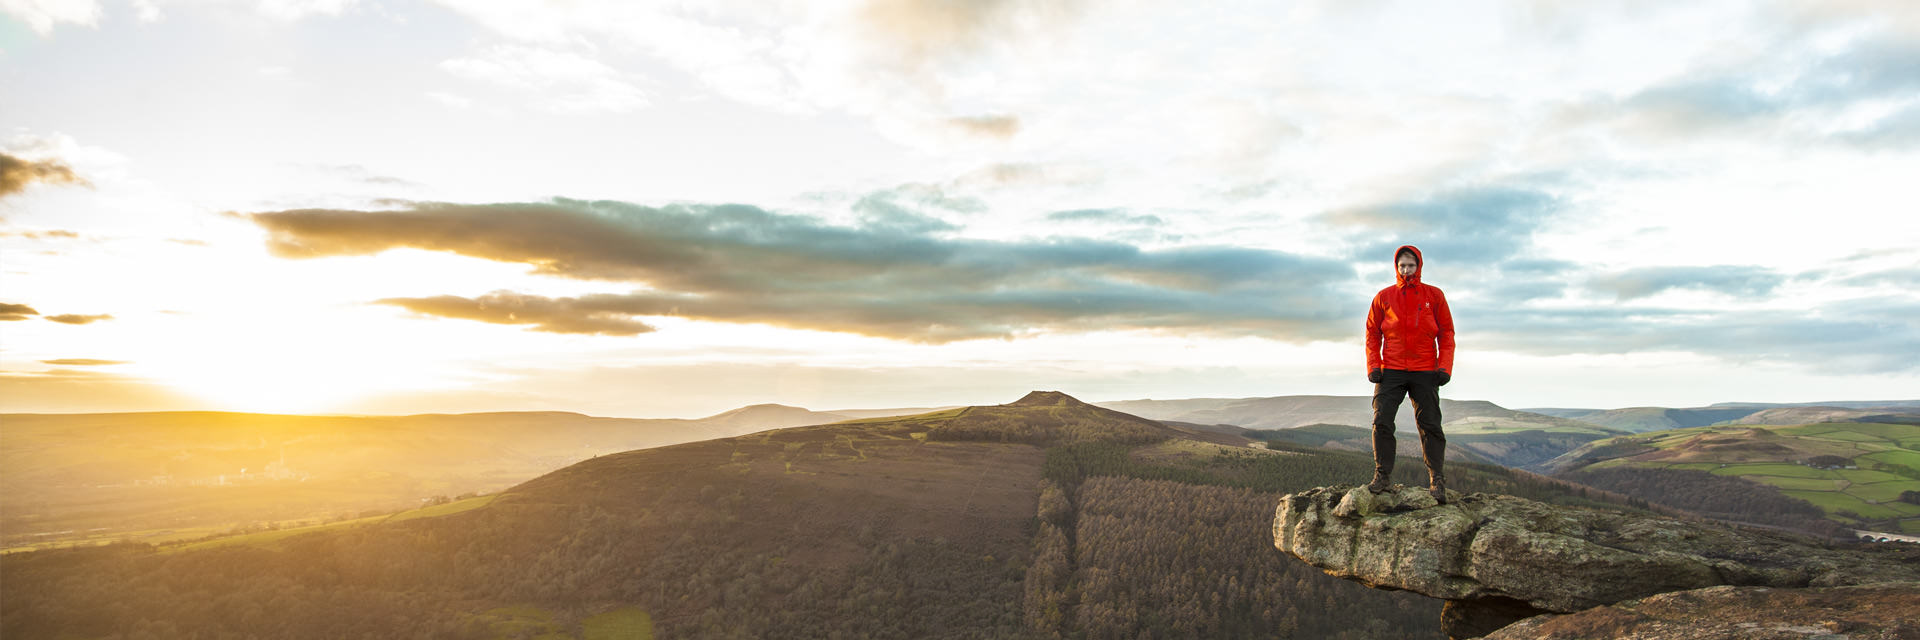
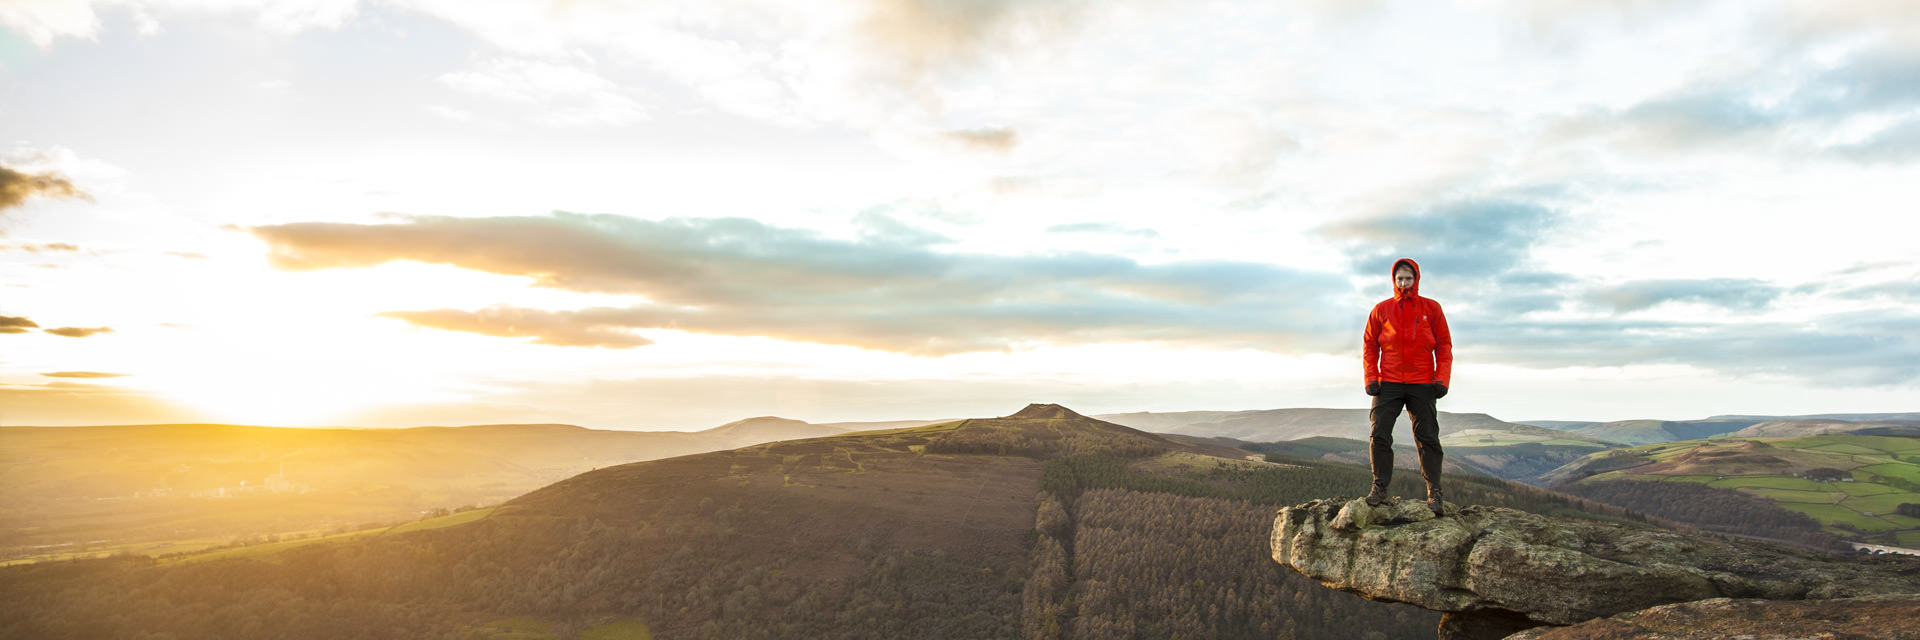
Moved headers on all pages (except about page) into center

diff --git a/public/assets/minified/design.css b/public/assets/minified/design.css
@@ -1,1 +1,1 @@
-*,:after,:before{box-sizing:border-box;margin:0;padding:0}code[class*=language-],pre[class*=language-]{color:#f8f8f2;text-shadow:0 1px rgba(0,0,0,.3);font-family:Consolas,Monaco,'Andale Mono',monospace;font-size:.9em;direction:ltr;text-align:left;white-space:pre;word-spacing:normal;-moz-tab-size:4;-o-tab-size:4;tab-size:4;-webkit-hyphens:none;-moz-hyphens:none;-ms-hyphens:none;hyphens:none}pre[class*=language-]{padding:.5em 1em;margin:1em 0;overflow:auto;border-radius:.3em}:not(pre)>code[class*=language-],pre[class*=language-]{background:#272822}:not(pre)>code[class*=language-]{margin:0 .3em;padding:.1em .3em;border-radius:.3em}.token.cdata,.token.comment,.token.doctype,.token.prolog{color:#708090}.token.punctuation{color:#f8f8f2}.namespace{opacity:.7}.token.property,.token.tag{color:#f92672}.token.boolean,.token.number{color:#ae81ff}.token.attr-name,.token.selector,.token.string{color:#a6e22e}.language-css .token.string,.style .token.string,.token.entity,.token.operator,.token.url{color:#f8f8f2}.token.atrule,.token.attr-value{color:#e6db74}.token.keyword{color:#66d9ef}.token.important,.token.regex{color:#fd971f}.token.important{font-weight:700}.token.entity{cursor:help}@font-face{font-family:Sonus-Light;src:url(../font/sonus-light.eot);src:url(../font/sonus-light.eot?#iefix) format("embedded-opentype"),url(../font/sonus-light.woff) format("woff"),url(../font/sonus-light.ttf) format("truetype");font-weight:400;font-style:normal}@font-face{font-family:Sonus-Regular;src:url(../font/sonus-regular.eot);src:url(../font/sonus-regular.eot?#iefix) format("embedded-opentype"),url(../font/sonus-regular.woff) format("woff"),url(../font/sonus-regular.ttf) format("truetype");font-weight:400;font-style:normal}strong{font-family:Sonus-Regular,Helvetica,Arial,sans-serif}em{font-style:italic;font-weight:700}a{color:#f80;text-decoration:none}h1,h2,h3,h4,h5{font-family:Sonus-Regular,Helvetica,Arial,sans-serif}h1{font-size:2.5em}h2{font-size:1.75em}h3{font-size:1.3em}h4{font-size:1.15em}h5{font-size:1em}@-webkit-keyframes pulse{0%{-webkit-transform:scale3d(1,1,1);transform:scale3d(1,1,1)}50%{-webkit-transform:scale3d(1.1,1.1,1.1);transform:scale3d(1.1,1.1,1.1)}100%{-webkit-transform:scale3d(1,1,1);transform:scale3d(1,1,1)}}@keyframes pulse{0%{-webkit-transform:scale3d(1,1,1);transform:scale3d(1,1,1)}50%{-webkit-transform:scale3d(1.1,1.1,1.1);transform:scale3d(1.1,1.1,1.1)}100%{-webkit-transform:scale3d(1,1,1);transform:scale3d(1,1,1)}}.pulse,section[page=about] header.full-page a.down{-webkit-animation-name:pulse;animation-name:pulse;-webkit-animation-duration:750ms;animation-duration:750ms;-webkit-animation-iteration-count:infinite;animation-iteration-count:infinite}img{border:0;display:block}ol,ul{list-style-position:outside;list-style-type:square}ol li,ul li{margin-top:.1em}ol ol,ol ul,ul ol,ul ul{margin-top:.1em!important;margin-left:1em}s{text-decoration:strikethrough}h2{margin-top:2em}h3{margin-top:1.5em}h4{margin-top:1em}h5{margin-top:.5em}p{margin-top:1em}ol,ul{margin-top:.5em}blockquote{background:rgba(0,0,0,.025);margin-top:1em;padding:.5em 1em}blockquote cite{display:block;font-weight:700;margin-top:1em}table{border-collapse:collapse;margin-top:1em;width:100%}table thead{background:#222;color:#fff;font-weight:700}table tbody tr{background:rgba(0,0,0,.025)}table tbody tr:nth-child(even){background:rgba(0,0,0,.05)}table td{padding:1% 2%}hgroup.section{height:1.5em;margin:2em 0;position:relative}hgroup.section span{background:#646464;display:block;height:1px;position:relative;top:50%;width:100%}hgroup.section h3{display:inline-block;background:#f2efeb;left:37.5%;margin:0;position:relative;text-align:center;width:25%}@media screen and (max-width:800px){hgroup.section h3{left:25%;width:50%}}div.photo{margin:1.5em 0}div.photo img{margin:auto;max-width:100%}div.photo.full-width{background-position:center center;background-size:cover;height:400px;margin:3em 0;overflow:hidden}div.photo.full-width.left{background-position:center left}div.photo.full-width.right{background-position:center right}div.photo.full-width img{width:100%}div.gallery{height:300px;margin:3em 0;overflow:hidden}@media screen and (max-width:800px){div.gallery{height:auto}}div.gallery div.photo{background-position:center center;background-size:cover;float:left;height:100%;margin:0}div.gallery div.photo.one-thirds{width:33%}div.gallery div.photo.two-thirds{width:66%}div.gallery div.photo.margin-left{margin-left:1%}div.gallery div.photo.margin-right{margin-right:1%}@media screen and (max-width:800px){div.gallery div.photo{float:none;height:200px;margin:1em 0 0!important;width:auto!important}}div.video{height:0;position:relative;margin:3em 0}div.video.aspect-16-9{padding-bottom:56.25%}div.video iframe{height:100%;left:0;position:absolute;top:0;width:100%}html{background:#f2efeb;color:#222;font:105%/1.6em Sonus-Light,Helvetica,Arial,sans-serif;position:relative}.reading-width,body[template=default] section#content,section[page=about] div.inner{width:70%;max-width:1000px}@media screen and (max-width:800px){.reading-width,body[template=default] section#content,section[page=about] div.inner{width:80%}}@media screen and (max-width:600px){.reading-width,body[template=default] section#content,section[page=about] div.inner{width:90%}}body[template=default] header{background:url(../img/joel-vardy-peak-district.jpg) right center #e1e1e1;background-size:cover;position:relative}body[template=default] header.full-page{min-height:100vh}body[template=default] header.half-page{min-height:50vh}body[template=default] header.half-page hgroup{color:#222;left:75px;position:absolute;top:100px;text-shadow:#fff 0 1px 0}@media screen and (max-width:500px){body[template=default] header.half-page hgroup{left:5%;text-align:center;width:90%}}body[template=default] header.half-page hgroup a{color:#222}body[template=default] header.half-page hgroup h1{line-height:1em}body[template=default] header.half-page hgroup h4{line-height:1.3em;margin-top:.25em}body[template=default] header.half-page hgroup h4 a{text-decoration:underline}body[template=default] header nav{overflow:hidden}body[template=default] header nav a{background:rgba(255,255,255,.5);border-bottom-left-radius:3px;border-bottom-right-radius:3px;color:#222;float:left;margin-left:20px;padding:5px 10px;text-shadow:#fff 0 1px 0;text-transform:uppercase}body[template=default] header nav a.active{border-bottom:2px #f80 solid;color:#222}body[template=default] section#content{margin:0 auto;padding-bottom:3em}section[page=about] header.full-page{background-image:url(../img/about/joel-vardy-lonely-iceland.jpg);background-position:left center}section[page=about] header.full-page h1,section[page=about] header.full-page p{position:absolute;right:75px;text-align:right;max-width:400px}@media screen and (max-width:550px){section[page=about] header.full-page h1,section[page=about] header.full-page p{right:5%;max-width:none;text-align:center;width:90%}}section[page=about] header.full-page h1{font-size:3em;top:75px}@media screen and (max-width:550px){section[page=about] header.full-page h1{top:65px}}section[page=about] header.full-page p{font-size:1.8em;line-height:1.5em;top:125px}@media screen and (max-width:550px){section[page=about] header.full-page p{font-size:1.6em;top:80px}}section[page=about] header.full-page a.down{background:url(../img/icons/down.svg) center center no-repeat;background-size:60px;display:block;height:50px;left:50%;margin:-25px 0 0 -50px;position:absolute;-webkit-tap-highlight-color:rgba(255,255,255,0);top:50%;width:100px}section[page=about] ol,section[page=about] ul{list-style-position:inside}section[page=about] div.inner{margin:0 auto;padding-bottom:3em}section[page=about] section#skills{overflow:hidden}section[page=about] section#skills h4{border-bottom:1px solid rgba(0,0,0,.075);display:inline-block}section[page=about] section#biography{background:url(../img/about/sky.jpg) center center;background-size:cover;color:#fff;overflow:hidden}section[page=about] section#biography h2{text-shadow:0 0 15px #000}section[page=about] section#biography p,section[page=about] section#biography ul{font-size:1.15em;line-height:1.65em;text-shadow:1px 1px 5px #000}section[page=about] section#contact{overflow:hidden}section[page=workspace] h4{margin-top:1.5em}section[page=projects] header.half-page{background-image:url(../img/projects/loch.jpg);background-position:left center}section[page=projects] div.project{background:#fff;border:1px solid rgba(0,0,0,.1);border-radius:4px;box-shadow:0 0 3px 0 rgba(0,0,0,.05);margin-top:3em;overflow:hidden}section[page=projects] div.project img.footer,section[page=projects] div.project img.header{width:100%}section[page=projects] div.project div.inner{padding:8%}section[page=projects] div.project div.inner h2{margin-top:0}section[page=projects] div.project div.inner ul.details{margin-top:1em}section[page=projects] div.project div.inner ul.details li strong{color:#000}section[page=writing-list] header.half-page{background-image:url(../img/writing/derwent-edge.jpg)}section[page=writing-list] a.post{color:#222;display:block;margin-top:3em}section[page=writing-list] a.post h2{border-bottom:1px solid rgba(0,0,0,.075);display:inline-block;margin-top:0}section[page=writing-list] a.post p.posted{color:#444;margin-top:.5em}section[page=writing-list] a.post p.posted strong{color:#222}section[page=writing-post] header.half-page{background-image:url(../img/writing/derwent-edge.jpg)}section[page=writing-post] div.post h4{font-family:Sonus-Light,Helvetica,Arial,sans-serif;font-size:1.05em;margin-top:0}section[page=writing-post] div.post ol,section[page=writing-post] div.post ul{list-style-position:inside;margin-top:1em}section[page=writing-post] div.post div.photo.event{margin:3em 0;position:relative;z-index:97}section[page=writing-post] div.post div.photo.event:after{background-image:-webkit-linear-gradient(transparent 0,rgba(0,0,0,.75) 100%);background-image:linear-gradient(transparent 0,rgba(0,0,0,.75) 100%);bottom:0;content:" ";display:block;left:0;position:absolute;right:0;top:250px;z-index:98}section[page=writing-post] div.post div.photo.event div.inner{height:100%;margin:auto;position:relative;width:70%;max-width:1000px;z-index:99}@media screen and (max-width:800px){section[page=writing-post] div.post div.photo.event div.inner{width:80%}}@media screen and (max-width:600px){section[page=writing-post] div.post div.photo.event div.inner{width:90%}}section[page=writing-post] div.post div.photo.event div.inner time{background:rgba(0,0,0,.75);border:2px solid #fff;border-radius:35px;display:block;height:70px;position:absolute;right:0;top:225px;width:70px}section[page=writing-post] div.post div.photo.event div.inner time span{color:#fff;display:block;text-align:center}section[page=writing-post] div.post div.photo.event div.inner time span.top{font-size:1.5em;left:0;position:absolute;right:0;top:10px}section[page=writing-post] div.post div.photo.event div.inner time span.bottom{left:0;position:absolute;right:0;text-transform:uppercase;top:35px}section[page=writing-post] div.post div.photo.event div.inner div.details{color:#fff;position:absolute;top:300px}section[page=writing-post] div.post div.photo.event div.inner div.details h4{border-bottom:1px #fff solid;display:inline-block}section[page=writing-post] div.post div.photo.event div.inner div.details p{text-shadow:1px 1px rgba(0,0,0,.25)}@media screen and (max-width:600px){section[page=writing-post] div.post div.photo.event div.inner div.details p{display:none}}@media print{body,section[page=writing-post] div.post div.photo.event div.inner{width:100%}header nav a:not(.active){display:none}section[page=projects] div.project{border:none;border-radius:none;box-shadow:none;margin-top:3em}section[page=projects] div.project div.inner{padding:4%}div.photo.full-width{display:none}}
+*,:after,:before{box-sizing:border-box;margin:0;padding:0}code[class*=language-],pre[class*=language-]{color:#f8f8f2;text-shadow:0 1px rgba(0,0,0,.3);font-family:Consolas,Monaco,'Andale Mono',monospace;font-size:.9em;direction:ltr;text-align:left;white-space:pre;word-spacing:normal;-moz-tab-size:4;-o-tab-size:4;tab-size:4;-webkit-hyphens:none;-moz-hyphens:none;-ms-hyphens:none;hyphens:none}pre[class*=language-]{padding:.5em 1em;margin:1em 0;overflow:auto;border-radius:.3em}:not(pre)>code[class*=language-],pre[class*=language-]{background:#272822}:not(pre)>code[class*=language-]{margin:0 .3em;padding:.1em .3em;border-radius:.3em}.token.cdata,.token.comment,.token.doctype,.token.prolog{color:#708090}.token.punctuation{color:#f8f8f2}.namespace{opacity:.7}.token.property,.token.tag{color:#f92672}.token.boolean,.token.number{color:#ae81ff}.token.attr-name,.token.selector,.token.string{color:#a6e22e}.language-css .token.string,.style .token.string,.token.entity,.token.operator,.token.url{color:#f8f8f2}.token.atrule,.token.attr-value{color:#e6db74}.token.keyword{color:#66d9ef}.token.important,.token.regex{color:#fd971f}.token.important{font-weight:700}.token.entity{cursor:help}@font-face{font-family:Sonus-Light;src:url(../font/sonus-light.eot);src:url(../font/sonus-light.eot?#iefix) format("embedded-opentype"),url(../font/sonus-light.woff) format("woff"),url(../font/sonus-light.ttf) format("truetype");font-weight:400;font-style:normal}@font-face{font-family:Sonus-Regular;src:url(../font/sonus-regular.eot);src:url(../font/sonus-regular.eot?#iefix) format("embedded-opentype"),url(../font/sonus-regular.woff) format("woff"),url(../font/sonus-regular.ttf) format("truetype");font-weight:400;font-style:normal}strong{font-family:Sonus-Regular,Helvetica,Arial,sans-serif}em{font-style:italic;font-weight:700}a{color:#f80;text-decoration:none}h1,h2,h3,h4,h5{font-family:Sonus-Regular,Helvetica,Arial,sans-serif}h1{font-size:2.5em}h2{font-size:1.75em}h3{font-size:1.3em}h4{font-size:1.15em}h5{font-size:1em}@-webkit-keyframes pulse{0%{-webkit-transform:scale3d(1,1,1);transform:scale3d(1,1,1)}50%{-webkit-transform:scale3d(1.1,1.1,1.1);transform:scale3d(1.1,1.1,1.1)}100%{-webkit-transform:scale3d(1,1,1);transform:scale3d(1,1,1)}}@keyframes pulse{0%{-webkit-transform:scale3d(1,1,1);transform:scale3d(1,1,1)}50%{-webkit-transform:scale3d(1.1,1.1,1.1);transform:scale3d(1.1,1.1,1.1)}100%{-webkit-transform:scale3d(1,1,1);transform:scale3d(1,1,1)}}.pulse,section[page=about] header.full-page a.down{-webkit-animation-name:pulse;animation-name:pulse;-webkit-animation-duration:750ms;animation-duration:750ms;-webkit-animation-iteration-count:infinite;animation-iteration-count:infinite}img{border:0;display:block}ol,ul{list-style-position:outside;list-style-type:square}ol li,ul li{margin-top:.1em}ol ol,ol ul,ul ol,ul ul{margin-top:.1em!important;margin-left:1em}s{text-decoration:strikethrough}h2{margin-top:2em}h3{margin-top:1.5em}h4{margin-top:1em}h5{margin-top:.5em}p{margin-top:1em}ol,ul{margin-top:.5em}blockquote{background:rgba(0,0,0,.025);margin-top:1em;padding:.5em 1em}blockquote cite{display:block;font-weight:700;margin-top:1em}table{border-collapse:collapse;margin-top:1em;width:100%}table thead{background:#222;color:#fff;font-weight:700}table tbody tr{background:rgba(0,0,0,.025)}table tbody tr:nth-child(even){background:rgba(0,0,0,.05)}table td{padding:1% 2%}hgroup.section{height:1.5em;margin:2em 0;position:relative}hgroup.section span{background:#646464;display:block;height:1px;position:relative;top:50%;width:100%}hgroup.section h3{display:inline-block;background:#f2efeb;left:37.5%;margin:0;position:relative;text-align:center;width:25%}@media screen and (max-width:800px){hgroup.section h3{left:25%;width:50%}}div.photo{margin:1.5em 0}div.photo img{margin:auto;max-width:100%}div.photo.full-width{background-position:center center;background-size:cover;height:400px;margin:3em 0;overflow:hidden}div.photo.full-width.left{background-position:center left}div.photo.full-width.right{background-position:center right}div.photo.full-width img{width:100%}div.gallery{height:300px;margin:3em 0;overflow:hidden}@media screen and (max-width:800px){div.gallery{height:auto}}div.gallery div.photo{background-position:center center;background-size:cover;float:left;height:100%;margin:0}div.gallery div.photo.one-thirds{width:33%}div.gallery div.photo.two-thirds{width:66%}div.gallery div.photo.margin-left{margin-left:1%}div.gallery div.photo.margin-right{margin-right:1%}@media screen and (max-width:800px){div.gallery div.photo{float:none;height:200px;margin:1em 0 0!important;width:auto!important}}div.video{height:0;position:relative;margin:3em 0}div.video.aspect-16-9{padding-bottom:56.25%}div.video iframe{height:100%;left:0;position:absolute;top:0;width:100%}html{background:#f2efeb;color:#222;font:105%/1.6em Sonus-Light,Helvetica,Arial,sans-serif;position:relative}.reading-width,body[template=default] section#content,section[page=about] div.inner{width:70%;max-width:1000px}@media screen and (max-width:800px){.reading-width,body[template=default] section#content,section[page=about] div.inner{width:80%}}@media screen and (max-width:600px){.reading-width,body[template=default] section#content,section[page=about] div.inner{width:90%}}body[template=default] header{background:url(../img/joel-vardy-peak-district.jpg) left center #e1e1e1;background-size:cover}body[template=default] header.full-page{min-height:100vh}body[template=default] header.half-page{min-height:50vh}body[template=default] header.half-page hgroup{color:#222;margin-top:40px;text-align:center;text-shadow:#fff 0 1px 0}body[template=default] header.half-page hgroup a{color:#222}body[template=default] header.half-page hgroup h1{line-height:1em}body[template=default] header.half-page hgroup h4{line-height:1.3em;margin-top:.25em}body[template=default] header.half-page hgroup h4 a{text-decoration:underline}body[template=default] header nav{overflow:hidden}body[template=default] header nav a{background:rgba(255,255,255,.5);border-bottom-left-radius:3px;border-bottom-right-radius:3px;color:#222;float:left;margin-left:20px;padding:5px 10px;text-shadow:#fff 0 1px 0;text-transform:uppercase}body[template=default] header nav a.active{border-bottom:2px #f80 solid;color:#222}body[template=default] section#content{margin:0 auto;padding-bottom:3em}section[page=about] header.full-page{background-image:url(../img/about/joel-vardy-lonely-iceland.jpg);background-position:left center}section[page=about] header.full-page h1,section[page=about] header.full-page p{position:absolute;right:75px;text-align:right;max-width:400px}@media screen and (max-width:550px){section[page=about] header.full-page h1,section[page=about] header.full-page p{right:5%;max-width:none;text-align:center;width:90%}}section[page=about] header.full-page h1{font-size:3em;top:75px}@media screen and (max-width:550px){section[page=about] header.full-page h1{top:65px}}section[page=about] header.full-page p{font-size:1.8em;line-height:1.5em;top:125px}@media screen and (max-width:550px){section[page=about] header.full-page p{font-size:1.6em;top:80px}}section[page=about] header.full-page a.down{background:url(../img/icons/down.svg) center center no-repeat;background-size:60px;display:block;height:50px;left:50%;margin:-25px 0 0 -50px;position:absolute;-webkit-tap-highlight-color:rgba(255,255,255,0);top:50%;width:100px}section[page=about] ol,section[page=about] ul{list-style-position:inside}section[page=about] div.inner{margin:0 auto;padding-bottom:3em}section[page=about] section#skills{overflow:hidden}section[page=about] section#skills h4{border-bottom:1px solid rgba(0,0,0,.075);display:inline-block}section[page=about] section#biography{background:url(../img/about/sky.jpg) center center;background-size:cover;color:#fff;overflow:hidden}section[page=about] section#biography h2{text-shadow:0 0 15px #000}section[page=about] section#biography p,section[page=about] section#biography ul{font-size:1.15em;line-height:1.65em;text-shadow:1px 1px 5px #000}section[page=about] section#contact{overflow:hidden}section[page=workspace] h4{margin-top:1.5em}section[page=projects] header.half-page{background-image:url(../img/projects/loch.jpg);background-position:left center}section[page=projects] div.project{background:#fff;border:1px solid rgba(0,0,0,.1);border-radius:4px;box-shadow:0 0 3px 0 rgba(0,0,0,.05);margin-top:3em;overflow:hidden}section[page=projects] div.project img.footer,section[page=projects] div.project img.header{width:100%}section[page=projects] div.project div.inner{padding:8%}section[page=projects] div.project div.inner h2{margin-top:0}section[page=projects] div.project div.inner ul.details{margin-top:1em}section[page=projects] div.project div.inner ul.details li strong{color:#000}section[page=writing-list] header.half-page{background-image:url(../img/writing/derwent-edge.jpg)}section[page=writing-list] a.post{color:#222;display:block;margin-top:3em}section[page=writing-list] a.post h2{border-bottom:1px solid rgba(0,0,0,.075);display:inline-block;margin-top:0}section[page=writing-list] a.post p.posted{color:#444;margin-top:.5em}section[page=writing-list] a.post p.posted strong{color:#222}section[page=writing-post] header.half-page{background-image:url(../img/writing/derwent-edge.jpg)}section[page=writing-post] div.post h4{font-family:Sonus-Light,Helvetica,Arial,sans-serif;font-size:1.05em;margin-top:0}section[page=writing-post] div.post ol,section[page=writing-post] div.post ul{list-style-position:inside;margin-top:1em}section[page=writing-post] div.post div.photo.event{margin:3em 0;position:relative;z-index:97}section[page=writing-post] div.post div.photo.event:after{background-image:-webkit-linear-gradient(transparent 0,rgba(0,0,0,.75) 100%);background-image:linear-gradient(transparent 0,rgba(0,0,0,.75) 100%);bottom:0;content:" ";display:block;left:0;position:absolute;right:0;top:250px;z-index:98}section[page=writing-post] div.post div.photo.event div.inner{height:100%;margin:auto;position:relative;width:70%;max-width:1000px;z-index:99}@media screen and (max-width:800px){section[page=writing-post] div.post div.photo.event div.inner{width:80%}}@media screen and (max-width:600px){section[page=writing-post] div.post div.photo.event div.inner{width:90%}}section[page=writing-post] div.post div.photo.event div.inner time{background:rgba(0,0,0,.75);border:2px solid #fff;border-radius:35px;display:block;height:70px;position:absolute;right:0;top:225px;width:70px}section[page=writing-post] div.post div.photo.event div.inner time span{color:#fff;display:block;text-align:center}section[page=writing-post] div.post div.photo.event div.inner time span.top{font-size:1.5em;left:0;position:absolute;right:0;top:10px}section[page=writing-post] div.post div.photo.event div.inner time span.bottom{left:0;position:absolute;right:0;text-transform:uppercase;top:35px}section[page=writing-post] div.post div.photo.event div.inner div.details{color:#fff;position:absolute;top:300px}section[page=writing-post] div.post div.photo.event div.inner div.details h4{border-bottom:1px #fff solid;display:inline-block}section[page=writing-post] div.post div.photo.event div.inner div.details p{text-shadow:1px 1px rgba(0,0,0,.25)}@media screen and (max-width:600px){section[page=writing-post] div.post div.photo.event div.inner div.details p{display:none}}@media print{body,section[page=writing-post] div.post div.photo.event div.inner{width:100%}header nav a:not(.active){display:none}section[page=projects] div.project{border:none;border-radius:none;box-shadow:none;margin-top:3em}section[page=projects] div.project div.inner{padding:4%}div.photo.full-width{display:none}}

diff --git a/public/assets/sass/templates/_default.scss b/public/assets/sass/templates/_default.scss
@@ -2,9 +2,8 @@ body[template=default] {
 
 	header {
 
-		background: rgb(225, 225, 225) url('../img/joel-vardy-peak-district.jpg') right center;
+		background: rgb(225, 225, 225) url('../img/joel-vardy-peak-district.jpg') left center;
 		background-size: cover;
-		position: relative;
 
 		&.full-page {
 			min-height: 100vh;
@@ -17,16 +16,9 @@ body[template=default] {
 			hgroup {
 
 				color: #222;
-				left: 75px;
-				position: absolute;
-				top: 100px;
+				margin-top: 40px;
+				text-align: center;
 				text-shadow: white 0px 1px 0px;
-
-				@media screen and (max-width: 500px) {
-					left: 5%;
-					text-align: center;
-					width: 90%;
-				}
 
 				a {
 					color: #222;
